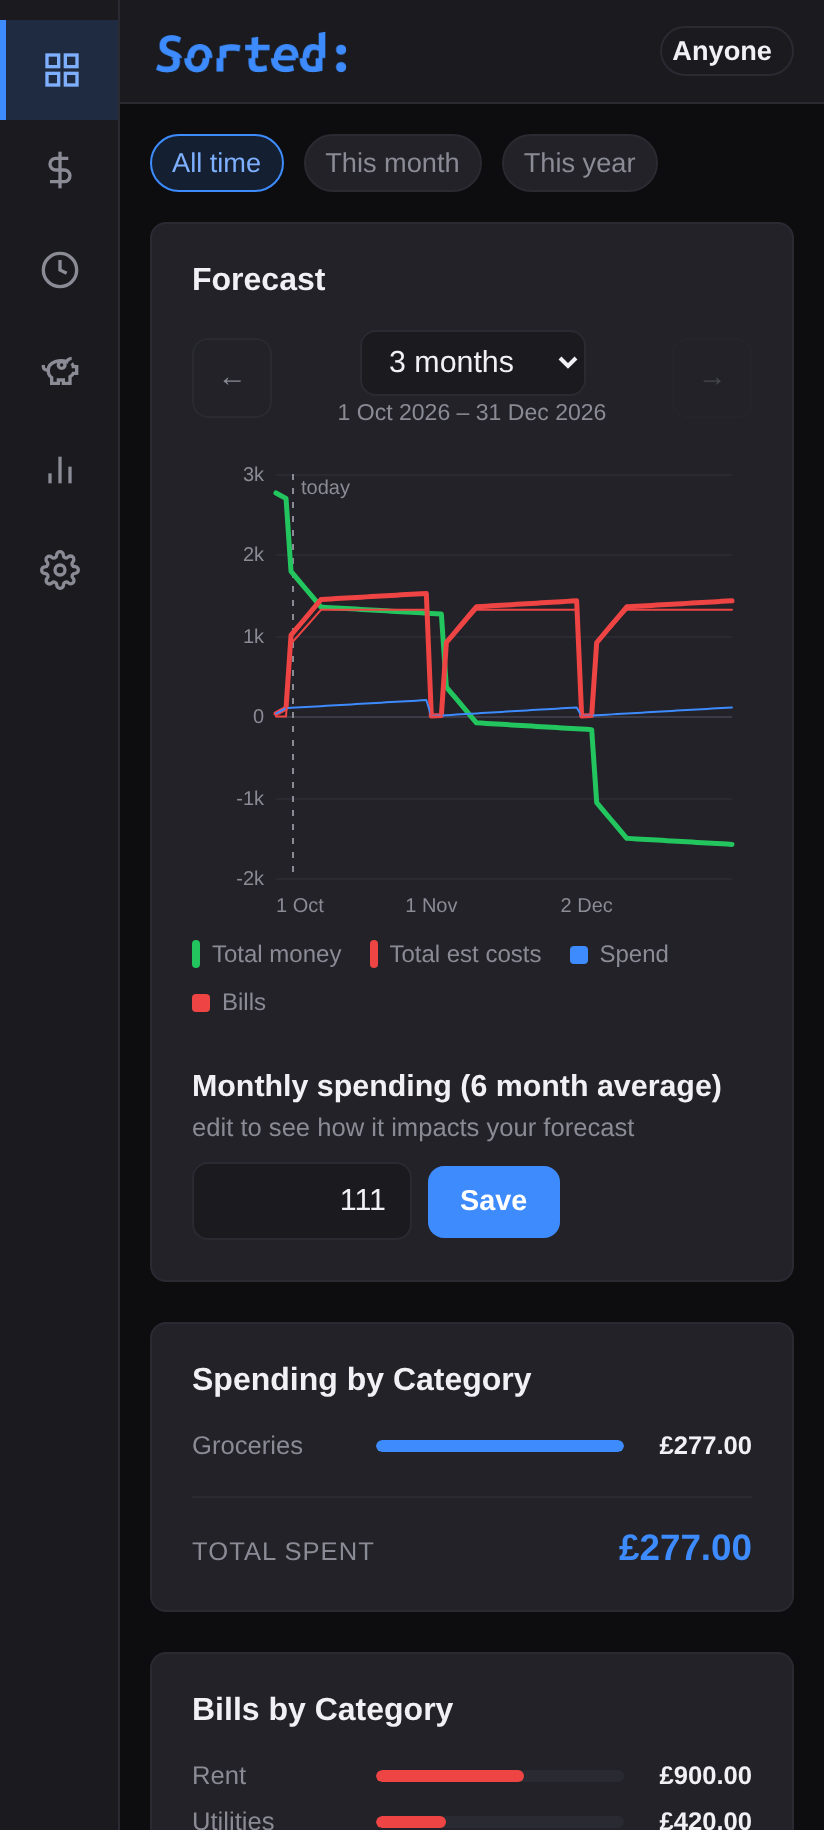
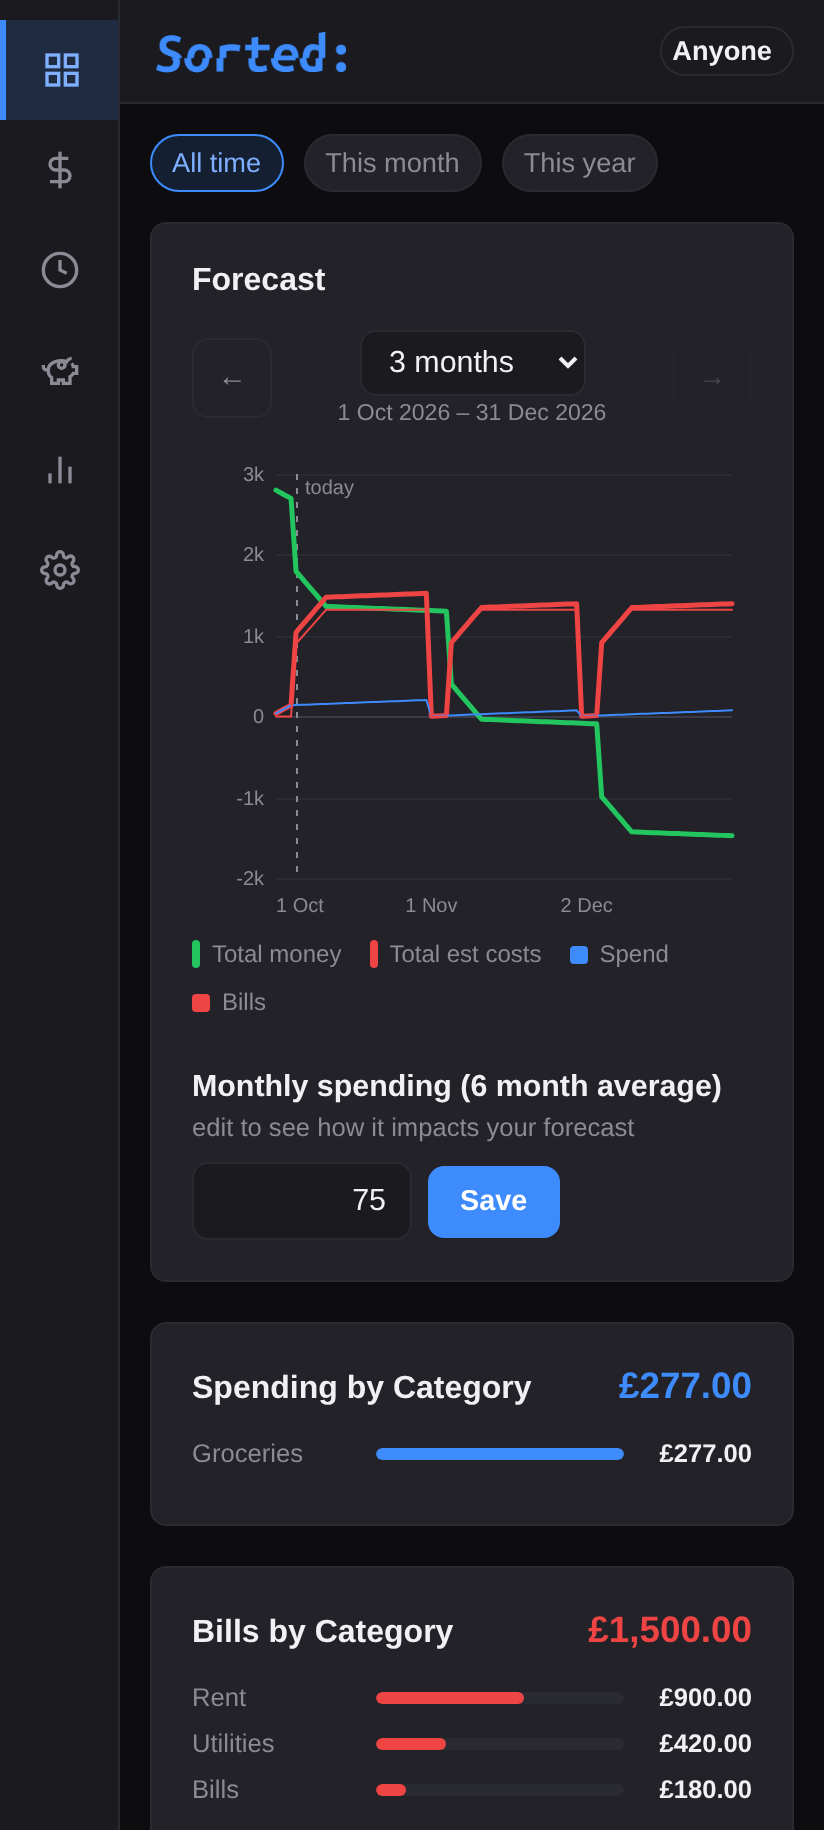
A blocked permission is said once, not once per tap
"The popup appears every time you turn on 'Bills due' — it only needs to appear
if notifications are not on at a system level on the phone. Are you able to test
this?"

Tested, and the answer is half reassuring. The condition was already right: the
message only appears when the system itself reports denied, which is exactly
"notifications are off for Sorted at the phone level". With notifications on,
the toast is "Bill reminders on" and the message never appears. That half needed
no change.

The other half was real. Once denied, it said the same thing on *every* toggle —
after the first time that is not information, it is an obstacle between someone
and the switch they were trying to move. It also called requestPermissions every
time to be refused again. A refusal is an answer; asking again does not change
it. It now asks once, keeps re-checking (so a user who has been and turned
notifications on is picked up without being asked again), and remembers what it
has said until the state changes — at which point the new problem is explained,
and the memory is cleared once notifications are allowed.

Recovery verified end to end: denied, silent on the second tap, then granted in
the phone's own settings, at which point the reminder schedules itself
(planBills 1, scheduled 1) and the next tap reads "Bill reminders on".

Line breaks removed, as listed.

Reports: each of the four breakdown cards spent a whole line on a total row
[…]

diff --git a/docs/static/js/app.js b/docs/static/js/app.js
@@ -2,7 +2,7 @@
 
 // Single source for the version shown in the UI. Bump this together with
 // package.json and android/app/build.gradle.
-const APP_VERSION = '2.24.0';
+const APP_VERSION = '2.25.0';
 document.querySelectorAll('.app-version').forEach((el) => { el.textContent = 'v' + APP_VERSION; });
 
 let currentPage = 'dashboard';
@@ -2111,15 +2111,13 @@ async function renderReports(container) {
       </div>
 
       <div class="report-card">
-        <h2 class="report-title">Spending by Category</h2>
+        ${reportHead('<h2 class="report-title">Spending by Category</h2>', totalSpend, 'accent')}
         ${renderReportBreakdown(groupByCategory(rangedSpend, 'amount'), totalSpend, 'accent')}
-        ${reportTotalRow('Total Spent', totalSpend, 'accent')}
       </div>
       
       <div class="report-card">
-        <h2 class="report-title">Bills by Category</h2>
+        ${reportHead('<h2 class="report-title">Bills by Category</h2>', totalDue, 'danger')}
         ${renderReportBreakdown(groupByCategory(rangedDue, 'amount'), totalDue, 'danger')}
-        ${reportTotalRow('Total Due', totalDue, 'danger')}
       </div>
 
       <div class="report-card">
@@ -2128,7 +2126,8 @@ async function renderReports(container) {
       </div>
 
       <div class="report-card">
-        <h2 class="report-title">Where Your Money Is</h2>
+        ${reportHead('<h2 class="report-title">Where Your Money Is</h2>',
+          balances.reduce((n, b) => n + b.balance, 0), null)}
         ${renderBalanceBreakdown(balances)}
       </div>
 
@@ -2138,11 +2137,10 @@ async function renderReports(container) {
       </div>
 
       <div class="report-card">
-        <h2 class="report-title report-title--link" role="button" tabindex="0"
+        ${reportHead(`<h2 class="report-title report-title--link" role="button" tabindex="0"
             onclick="goToGoals()" onkeydown="if(event.key==='Enter'||event.key===' '){event.preventDefault();goToGoals();}"
-            title="Go to your goals">Savings by Goal</h2>
+            title="Go to your goals">Savings by Goal</h2>`, totalSavings, 'success')}
         ${renderSavingsBreakdown(savingsItems)}
-        ${reportTotalRow('Total Saved', totalSavings, 'success')}
       </div>
     </div>
   `;
@@ -2154,13 +2152,19 @@ async function renderReports(container) {
 // repeated all three in one place, which meant reading one number required
 // scrolling past two other cards to find it — and the total is the thing the
 // breakdown below it adds up to, so it belongs at the foot of that breakdown.
-function reportTotalRow(label, amount, tone) {
+// A card's title and its total, on one line.
+//
+// The total used to be a row of its own below the breakdown, which cost every
+// one of these cards a whole line to say something the heading already implies:
+// "Spending by Category ... £123.00". On a phone that line is a fifth of the
+// card. The label went with it — "Total Spent" under a heading that already
+// says Spending said the same thing twice.
+function reportHead(title, amount, tone) {
   return `
-    <div class="report-total">
-      <span class="report-total-label">${escapeHTML(label)}</span>
-      <span class="report-total-value${tone ? ' tone-' + tone : ''}">${currency(amount)}</span>
-    </div>
-  `;
+    <div class="report-head">
+      ${title}
+      <span class="report-head-total${tone ? ' tone-' + tone : ''}">${currency(amount)}</span>
+    </div>`;
 }
 
 // Savings goals measured against their own target, not against each other —
@@ -2229,7 +2233,6 @@ function renderBalanceBreakdown(balances) {
   if (!balances.length) {
     return '<div style="color: var(--text-secondary); padding: 20px 0;">No accounts yet</div>';
   }
-  const total = balances.reduce((n, b) => n + b.balance, 0);
   return `
     ${balances.map((b) => {
       // Only the things that actually moved. A row reading "Bills £0.00,
@@ -2256,7 +2259,6 @@ function renderBalanceBreakdown(balances) {
         </div>
       `;
     }).join('')}
-    ${reportTotalRow('Total', total, null)}
   `;
 }
 
@@ -3031,7 +3033,6 @@ function renderSettings(container) {
       </div>
 
       <div class="report-card">
-        <h2 class="report-title">People</h2>
         ${peopleSettingsHtml()}
       </div>
 
@@ -3040,17 +3041,16 @@ function renderSettings(container) {
       </div>
 
       <div class="report-card">
-        <h2 class="report-title">Reminders</h2>
         ${notifySettingsHtml()}
       </div>
 
       <div class="report-card">
-        <h2 class="report-title">Currency</h2>
         <div class="setting-row setting-row--inline setting-row--tight">
           <div class="setting-text">
-            <div class="setting-label">${escapeHTML(getCurrencyCode())}</div>
+            <div class="setting-label setting-label--title">Currency</div>
           </div>
-          <div class="setting-control">
+          <div class="setting-control setting-control--split">
+            <span class="currency-code">${escapeHTML(getCurrencyCode())}</span>
             <select class="form-input form-input--mini" id="currency-select"
                     aria-label="Currency"
                     onchange="setCurrencyCode(this.value); renderPage();">
@@ -3069,10 +3069,9 @@ function renderSettings(container) {
       </div>
 
       <div class="report-card">
-        <h2 class="report-title">About</h2>
         <p style="color: var(--text-secondary);">
           <strong>Sorted <span class="app-version">v${APP_VERSION}</span></strong><br>
-          All data stored locally · no cloud, no login<br>
+          All data stored locally · no cloud, no login ·
           <a href="https://github.com/jaquesbody/sorted/releases" target="_blank" rel="noopener"
              style="color: var(--accent);">Releases on GitHub</a>
         </p>

diff --git a/docs/static/js/notify.js b/docs/static/js/notify.js
@@ -35,6 +35,10 @@ const NOTIFY_SPEND_TIME_KEY = 'sorted-notify-spend-time';
 const NOTIFY_GOAL_KEY = 'sorted-notify-goal';
 const NOTIFY_GOAL_CADENCE_KEY = 'sorted-notify-goal-cadence';
 const NOTIFY_GOAL_LAST_KEY = 'sorted-notify-goal-last';
+// Which permission state, if any, has already been explained to the reader. See
+// reportReminderOutcome() — this exists so a blocked notice is said once rather
+// than on every tap.
+const NOTIFY_BLOCKED_KEY = 'sorted-notify-blocked';
 
 // Android requires a channel from API 26, and a notification with no channel is
 // silently dropped.
@@ -582,8 +586,19 @@ async function notificationPermission(request) {
     if (before && before.display === 'granted') {
       return { state: 'granted', detail: 'already granted' };
     }
+    // A refusal is an answer, and asking again does not change it — the only
+    // thing that does is the phone's own settings screen, which is exactly what
+    // the message tells them to go and use. So once a check has come back
+    // denied, this stops requesting and only re-checks.
+    //
+    // Re-checking is not redundant: the user may have been and gone and turned
+    // notifications on, and the reminder is meant to start working by itself the
+    // moment they have.
+    const knownDenied = notifyPermissionCache
+      && notifyPermissionCache.state === 'denied'
+      && before.display === 'denied';
     let asked = null;
-    if (request) {
+    if (request && !knownDenied) {
       asked = await cap.requestPermissions();
     }
     // Trust the re-check over the request's own answer: the two can disagree,
@@ -712,12 +727,25 @@ async function toggleNudge(kind) {
 // vanishes after three and a half seconds is a permission problem you can't act
 // on — so the one that matters is left long enough to read, and the Settings
 // line keeps it on screen afterwards.
+//
+// The blocked notice is said once per blocked run, not once per tap. "Turn on
+// notifications for Sorted in your phone settings" appeared every single time a
+// reminder was switched on, which is the least useful possible form of a
+// message about something the reader cannot fix from here: after the first time
+// it is not information, it is an obstacle between them and the switch they
+// were trying to move. It comes back if the state ever changes, and it goes for
+// good once notifications are allowed.
 function reportReminderOutcome(kind, perm) {
   const name = REMINDER_LABELS[kind] || 'Reminders';
   if (perm.state === 'granted') {
+    // Allowed at last: forget we ever said otherwise, so if it is blocked again
+    // later the reason is explained rather than assumed to be known.
+    localStorage.removeItem(NOTIFY_BLOCKED_KEY);
     showToast(`${name} on`);
     return;
   }
+  if (localStorage.getItem(NOTIFY_BLOCKED_KEY) === perm.state) return;
+  localStorage.setItem(NOTIFY_BLOCKED_KEY, perm.state);
   showToast(`${permissionMessage(perm.state).text}`, 8000);
 }
 

diff --git a/docs/static/css/main.css b/docs/static/css/main.css
@@ -1395,29 +1395,35 @@ body {
   stroke-linejoin: round;
 }
 
-/* The foot of a Reports card: the total its own breakdown adds up to. */
-.report-total {
+/* The head of a Reports card: its title, and the total its breakdown adds up to.
+   They share one line because a card on a phone cannot spare a fifth of itself
+   to repeat what the heading already says. */
+.report-head {
   display: flex;
   justify-content: space-between;
   align-items: baseline;
   gap: 12px;
-  margin-top: 18px;
-  padding-top: 14px;
-  border-top: 1px solid var(--border);
 }
 
-.report-total-label {
-  font-size: 0.8rem;
-  color: var(--text-secondary);
-  text-transform: uppercase;
-  letter-spacing: 0.04em;
+.report-head .report-title {
+  margin-bottom: 15px;
+  min-width: 0;
 }
 
-.report-total-value {
+.report-head-total {
   font-size: 1.15rem;
   font-weight: 700;
   color: var(--text-primary);
+  white-space: nowrap;
 }
+
+.report-head-total.tone-accent { color: var(--accent); }
+.report-head-total.tone-danger { color: var(--danger); }
+.report-head-total.tone-success { color: var(--success); }
+
+/* Patterns and Standing Charges. Deliberately quieter than the breakdown cards
+   next to them: these are observations, not totals, and a card that shouts a
+   habit at you is one you learn to scroll past. */
 
 /* Patterns and Standing Charges. Deliberately quieter than the breakdown cards
    next to them: these are observations, not totals, and a card that shouts a
@@ -1481,10 +1487,6 @@ body {
   color: var(--text-secondary);
   margin: 4px 0 10px;
 }
-
-.report-total-value.tone-accent { color: var(--accent); }
-.report-total-value.tone-danger { color: var(--danger); }
-.report-total-value.tone-success { color: var(--success); }
 
 /* The line under a row: "Paid 28 Sept 2026", "In 3 days", "3 days overdue".
    Takes the full width of the row and sits hard right, so the date a bill was
@@ -1992,6 +1994,16 @@ body {
   display: flex;
   align-items: center;
   gap: 8px;
+}
+
+/* The current currency, named beside its own picker: "Currency  GBP  [v]".
+   Without the code the dropdown is the only thing saying which one is in use,
+   and it has to be opened to find out. */
+.currency-code {
+  font-size: 0.95rem;
+  font-weight: 600;
+  color: var(--text-secondary);
+  letter-spacing: 0.03em;
 }
 
 /* The lock settings' controls sit beside their label rather than pushed to the

diff --git a/project.md b/project.md
@@ -72,6 +72,10 @@ Last updated 28th September 2026
 - **A render is for the page it was asked for, and it fails loudly.** `renderPage()` read `currentPage` *after* awaiting the people and account loads, and each render function captured `renderToken` itself — so a render superseded while loading picked up the newest token and was allowed to paint. That is how a slow page could leave the wrong tab on screen with the nav highlighting the right one. Both are now captured at entry, and a superseded render bails before dispatching.
 - **Nothing re-rendered on resume.** Android suspends the WebView in the background and closes IndexedDB while it is away. Anything that rendered in that window failed, and nothing re-read on the way back — so you returned to a blank or stale page under a nav highlighting the tab you had just asked for. The heaviest page is the one that suffers most, which is why it looked like a Reports problem. Returning to the app now re-renders the current tab.
 - **A failed read retries, then admits it.** Swallowing the error left the old page sitting there; the retry re-opens the connection first, and if it still cannot read, the page says so with a Try again button rather than going blank.
+- **A blocked permission is said once, not once per tap.** "Turn on notifications for Sorted in your phone settings" appeared every single time a reminder was switched on. The condition was already right — it only appears when the system itself reports `denied`, which is exactly "notifications are off for Sorted at the phone level", and it never appears when they are on. The fault was repetition: after the first time it is not information, it is an obstacle between someone and the switch they were trying to move. It is now remembered per permission state and cleared the moment notifications are allowed. Separately, once a check has come back `denied` the app stops calling `requestPermissions` — a refusal is an answer, and asking again does not change it — while still re-checking, so a user who has been and turned notifications on is picked up without being asked again.
+- **A card's total belongs on its heading line.** The four breakdown cards on Reports each spent a whole line on a total row under the bars. On a phone that is about a fifth of the card, saying something the heading already implies: "Spending by Category … £123.00". The label went with it — "Total Spent" beneath a heading that says Spending said it twice.
+- **A setting that names itself does not need a heading.** Currency, People, Reminders and About each gave a line to a title their own contents already made obvious — "Currency", "Add someone", "Bills due / Record spending / Savings goals". Removing the title is what `Appearance` and `Passcode` already did. Data Management and Danger zone keep theirs: they hold several controls that need naming, and a card that can delete everything should not be the one that lost its label.
+- **The currency's own code sits beside its picker.** "Currency  GBP  [v]" — without the code the dropdown is the only thing saying which currency is in use, and it has to be opened to find out.
 - **One definition per name, across all the scripts.** `toggleBillsReminders` and `changeNotifyTime` were each defined twice: once in notify.js, once in app.js. Plain `<script defer>` tags share one global scope and app.js loads last, so app.js silently won — including its copy of the Bills Due handler, which repainted *after* two bridge calls and so undid the fix recorded below. The flag cleared, the switch stayed on, and toggling a different row forced the repaint that finally showed the truth: exactly the "crossed wires" that were reported and not reproducible by reading the handler. There is now a test that fails if any name is declared in two of these files, because nothing else in the build notices.
 - **A switch's repaint must never queue behind a bridge call.** (Restated because it was fixed once and then silently reverted by the duplicate above, which is the strongest argument for the test above.) Order is record the choice → repaint → *then* talk to the platform. The flag used to be written first with the repaint after `await requestPermissions()`, and on Android that request puts a system dialog on screen, so the switch did not move until you changed tabs.
 - **A card's spacing comes from its container, not its own margin.** `.reports-grid` already had a 20px gap and `.report-card` also carried `margin-bottom: 14px`. Inside a grid those add rather than replace, so Reports and Settings ran at 34px between cards where the dashboard ran at 20. The margin is gone and the padding is now 20px to match `.stat-card` exactly.

diff --git a/README.md b/README.md
@@ -78,7 +78,7 @@ Then open `http://localhost:8000` in your browser. Same app, minus the native ex
 
 ### Android (APK)
 
-Grab [`sorted-v2-2.24.0-debug.apk`](sorted-v2-2.24.0-debug.apk) from this repo and sideload it (your phone will ask to allow installs from unknown sources). It's the same app wrapped in a WebView — fully offline, data stored on the phone. The phone build moves the six destinations into a bottom bar; append `?native` to the web URL to preview that layout in a desktop browser.
+Grab [`sorted-v2-2.25.0-debug.apk`](sorted-v2-2.25.0-debug.apk) from this repo and sideload it (your phone will ask to allow installs from unknown sources). It's the same app wrapped in a WebView — fully offline, data stored on the phone. The phone build moves the six destinations into a bottom bar; append `?native` to the web URL to preview that layout in a desktop browser.
 
 ### Updating an installed copy
 
